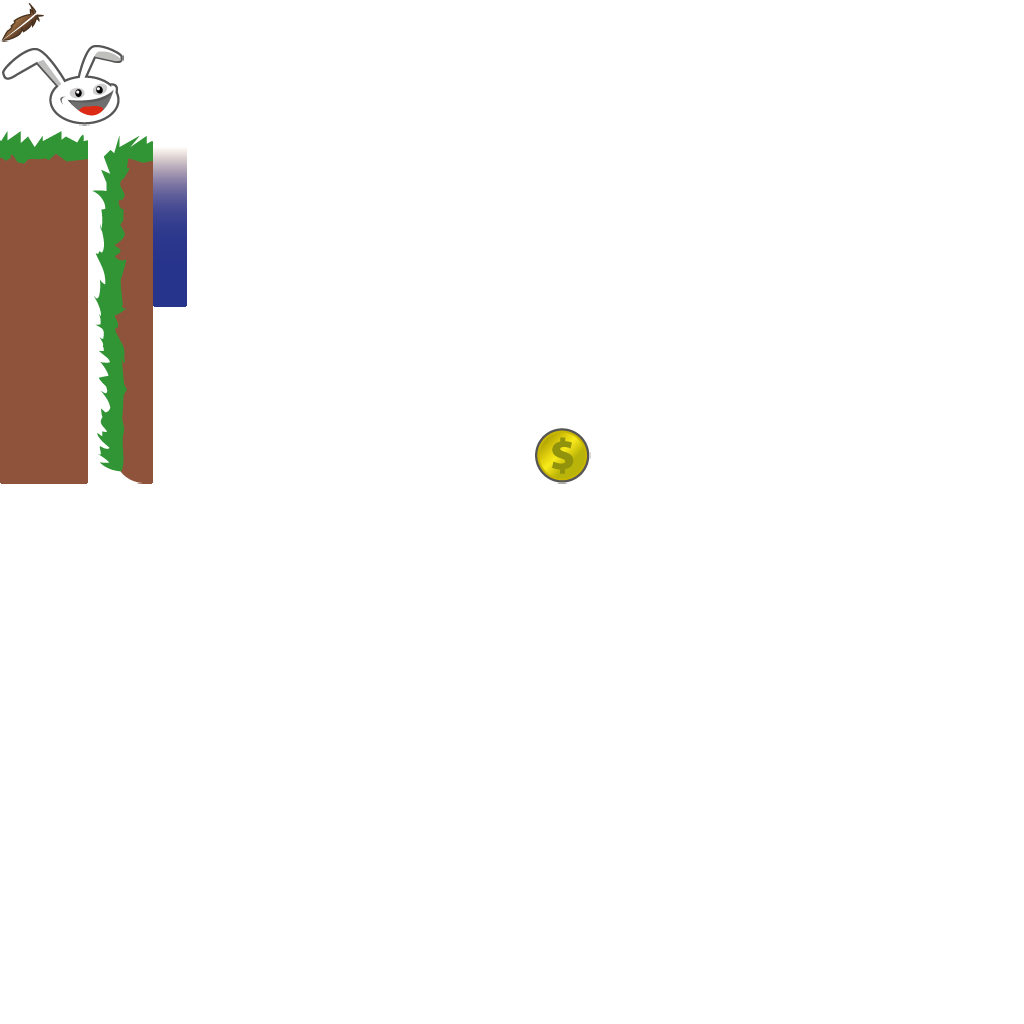
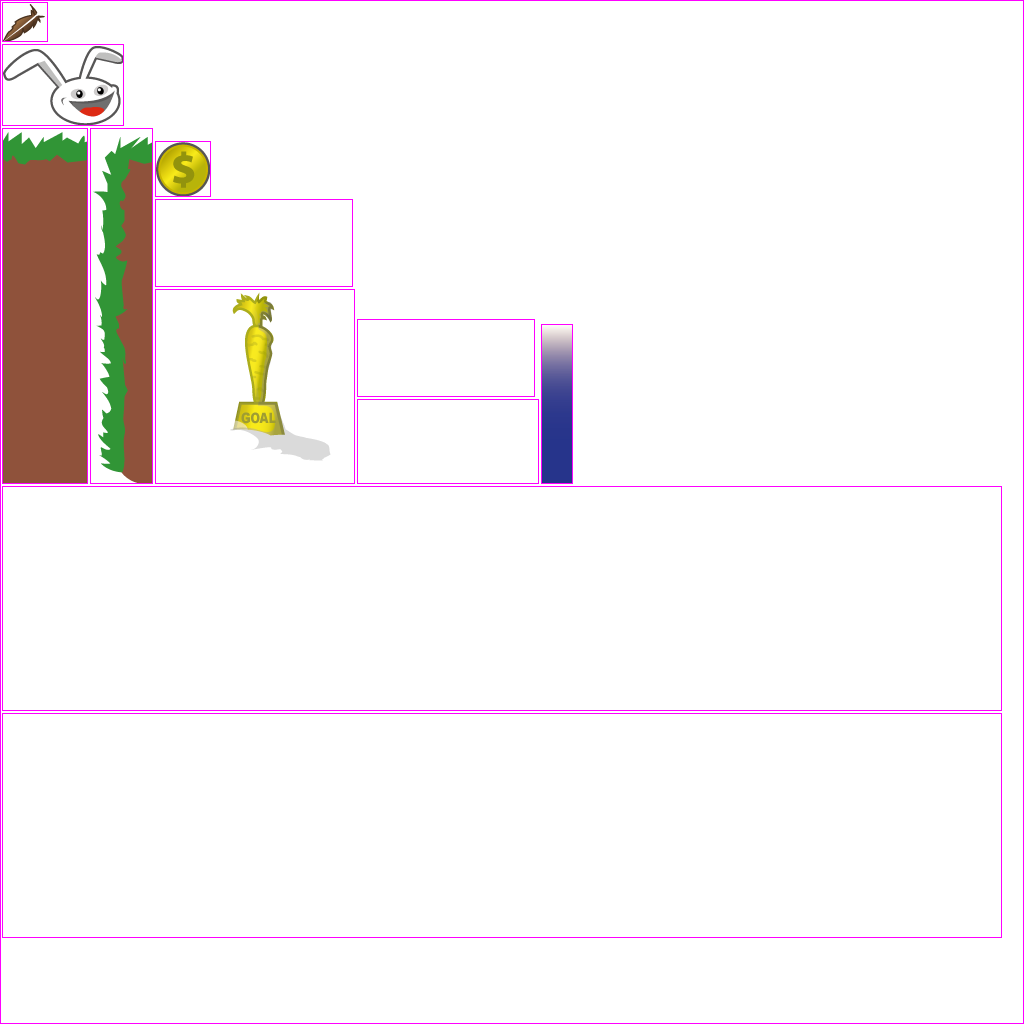
canyonbunny.png, .pack, Main y level-01.png modificados (23/03/2014)

diff --git a/my-gdx-game-desktop/src/com/me/mygdxgame/Main.java b/my-gdx-game-desktop/src/com/me/mygdxgame/Main.java
@@ -18,9 +18,13 @@ public class Main
 			settings.maxHeight = 1024;
 			settings.debug = drawDebugOutline;
 			TexturePacker2.process(settings, "assets-raw/images",
-			"../CanyonBunny-android/assets/images",
+			"../my-gdx-game-android/assets/images",
 			"canyonbunny.pack");
+			TexturePacker2.process(settings, "assets-raw/images-ui",
+					"../my-gdx-game-android/assets/images",
+					"canyonbunny-ui.pack");
 		}
+		
 		
 		LwjglApplicationConfiguration cfg = new LwjglApplicationConfiguration();
 		cfg.title = "Space Runners";
